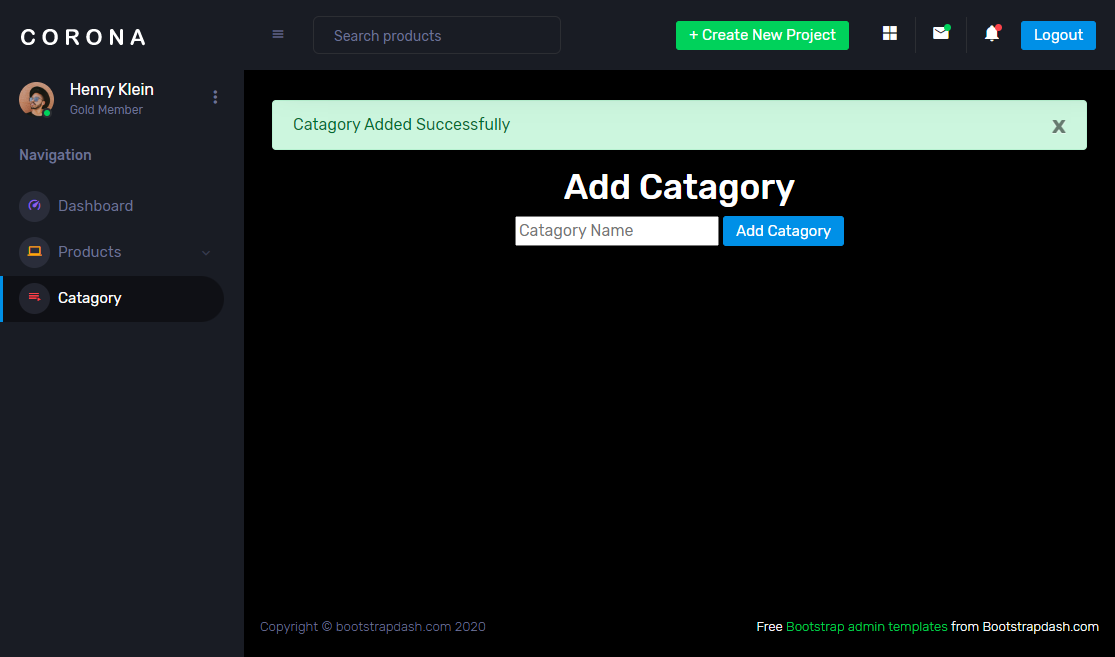
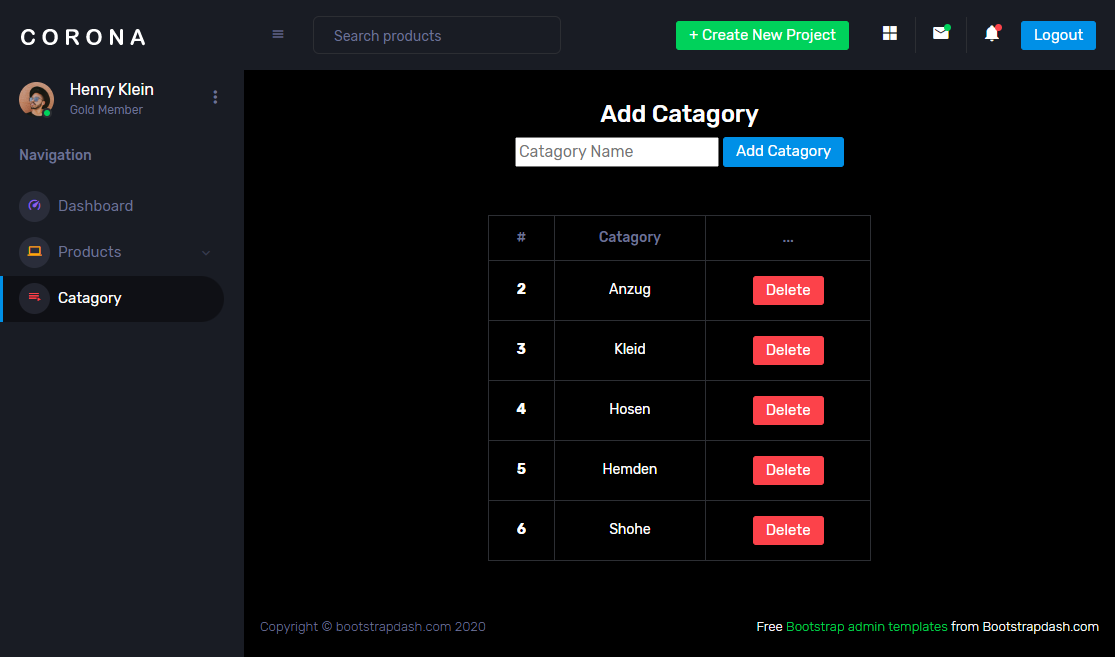
hinzufügen (löchen Kategorie)

diff --git a/resources/views/main/admin/pages_admin/catagory.blade.php b/resources/views/main/admin/pages_admin/catagory.blade.php
@@ -14,4 +14,26 @@
     </div>
 </form>
 
+<div class="col-lg-6 offset-lg-3 mt-5">
+    <table class="table table-bordered table-hover text-center text-white">
+        <thead>
+          <tr>
+            <th scope="col">#</th>
+            <th scope="col">Catagory</th>
+            <th scope="col">...</th>
+          </tr>
+        </thead>
+        <tbody>
+         @foreach ($catagory as $item)    
+          <tr>
+            <th scope="row">{{ $item->id }}</th>
+            <td>{{ $item->catagory_name }}</td>
+            <td><a class="btn btn-danger" href="{{url('delete_catagory', $item->id )}}">Delete</a></td>
+          </tr>
+          @endforeach
+        </tbody>
+    </table>
+</div>
+
+
 @endsection

diff --git a/app/Http/Controllers/AdminController.php b/app/Http/Controllers/AdminController.php
@@ -13,7 +13,8 @@ class AdminController extends Controller
 
     /* ---------------- Catagorys ---------------- */
     public function view_catagory(){
-        return view('main.admin.pages_admin.catagory');
+        $catagory = Catagory::all();
+        return view('main.admin.pages_admin.catagory', compact('catagory'));
     }
 
     public function add_catagory(Request $request){
